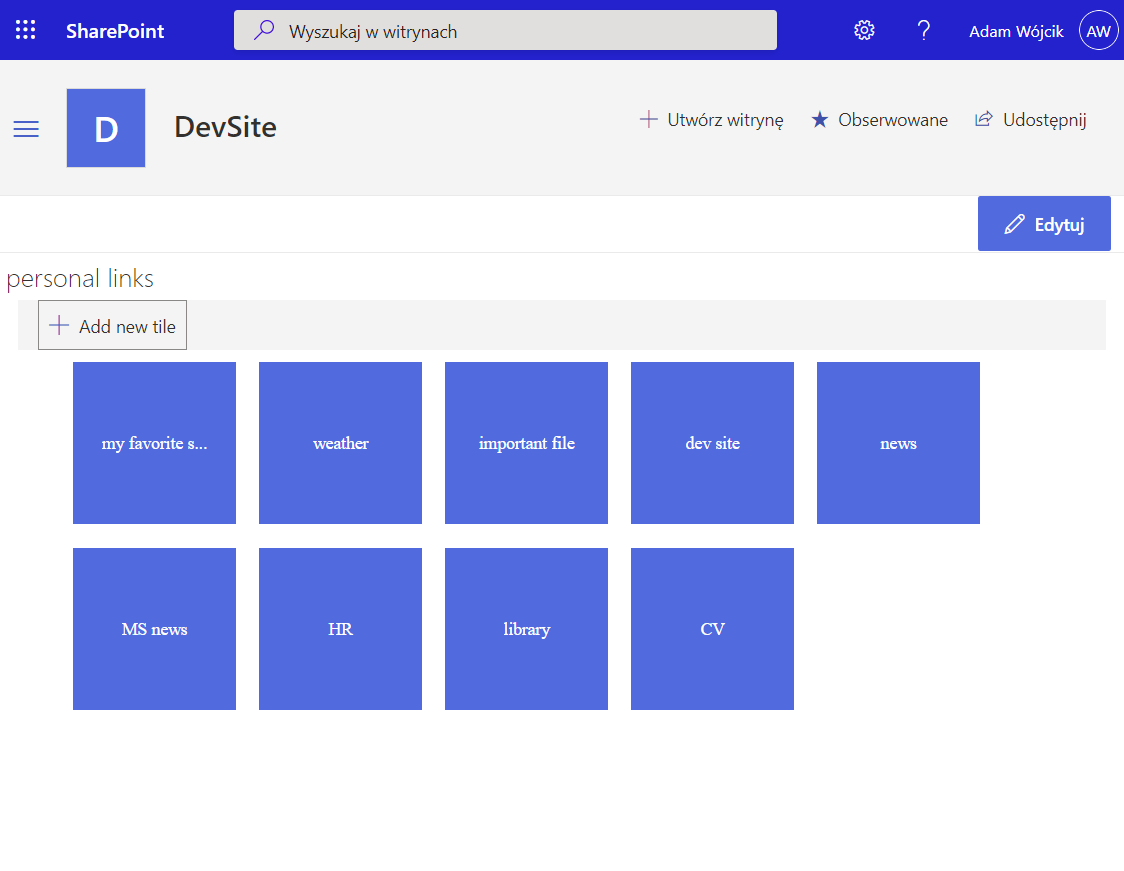
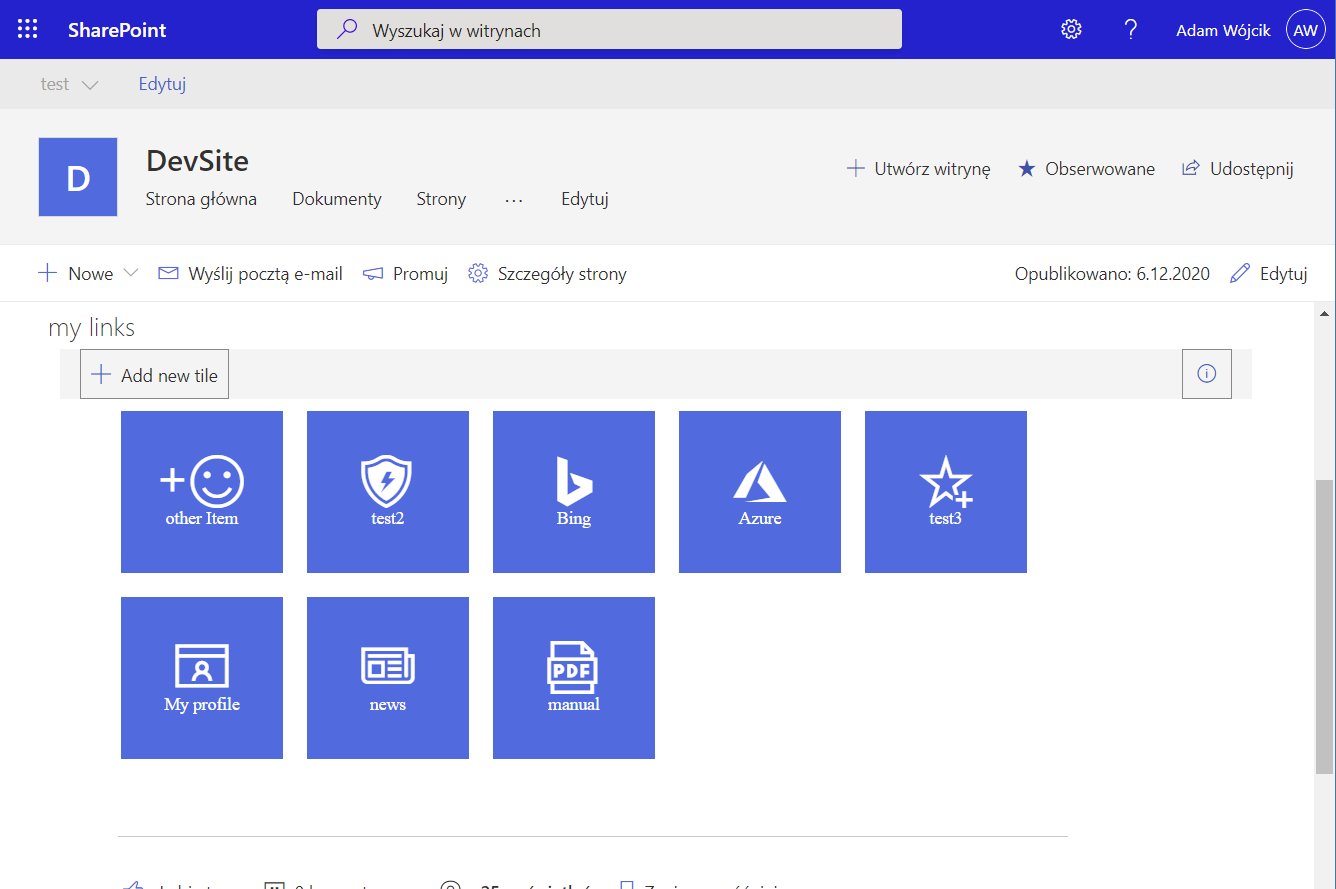
updated screens and readme

diff --git a/Webpart/README.md b/Webpart/README.md
@@ -39,15 +39,15 @@ this is how the webpart will look like in teams tab
 
 teams personal app
 
-![](images/4.gif)
+![](images/3.gif)
 ![](images/TeamsPersonalApp.png)
 ![](images/TeamsPersonalApp2.png)
 
 ## ToDo
 #### what I want to add for this solution 🤔
 - [ ] unit tests... ye ye I know.. should have done it long ego 😅
-- [ ] github action to deploy on each push to master branch using OF 365 CLI actions
-- [ ] I want to add icons to the tiles... so that the user may add icons to personal links
+- [x] github action to deploy on each push to master branch using OF 365 CLI actions
+- [x] I want to add icons to the tiles... so that the user may add icons to personal links
 
 ## ⚠ Disclaimer
 This code is provided as is without warranty of any kind, either express or implied, including any implied warranties of fitness for a particular purpose, merchantability, or non-infringement.

diff --git a/README.md b/README.md
@@ -11,8 +11,6 @@ This solution provides a functionality which may be added to any SharePoint page
 
 ![](Webpart/images/3.gif)
 
-![](Webpart/images/4.gif)
-
 In future I want to extend this with extensions for sites and lists that will allow to add a personal link from any point of SharePoint and with some kind of admin app (maybe some console application or other 🤔) which will allow to add not removable links for other users by the company. 
 
 This kind of solution gives an another personalized navigation for an Intranet portal which the users may create themselves. 
